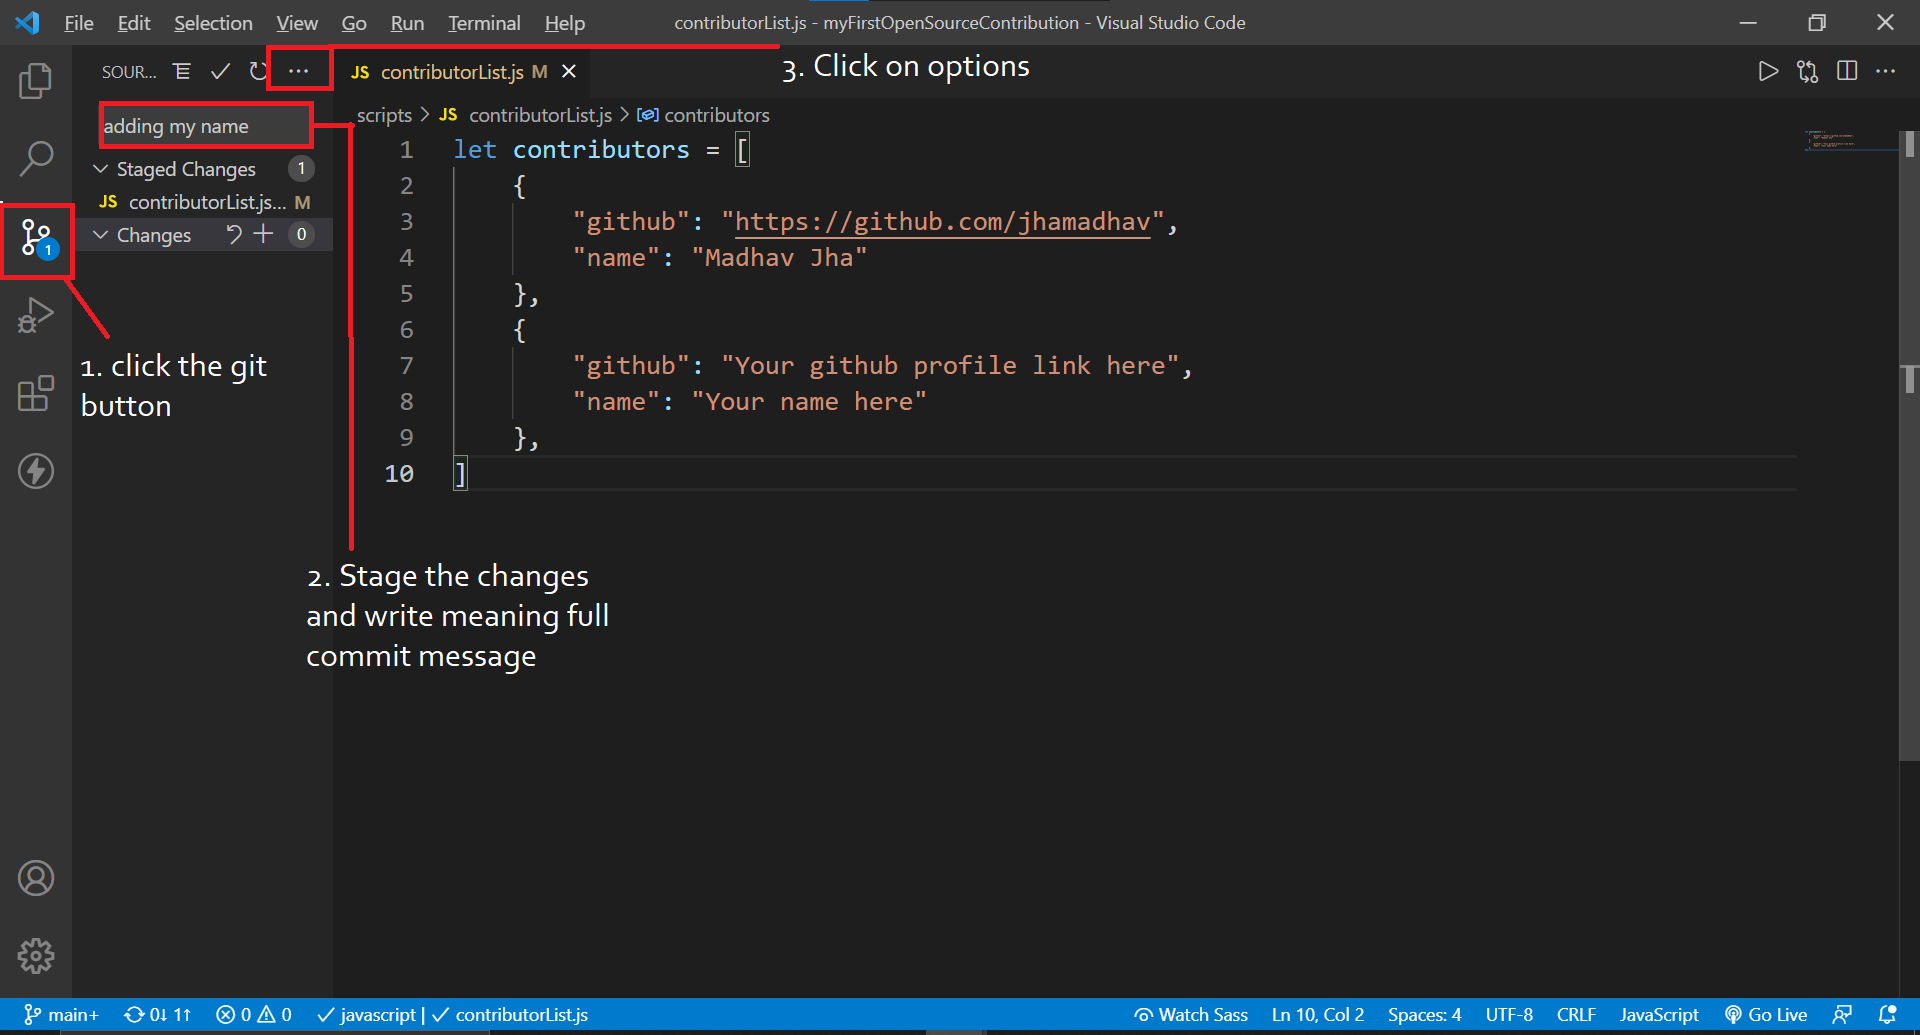
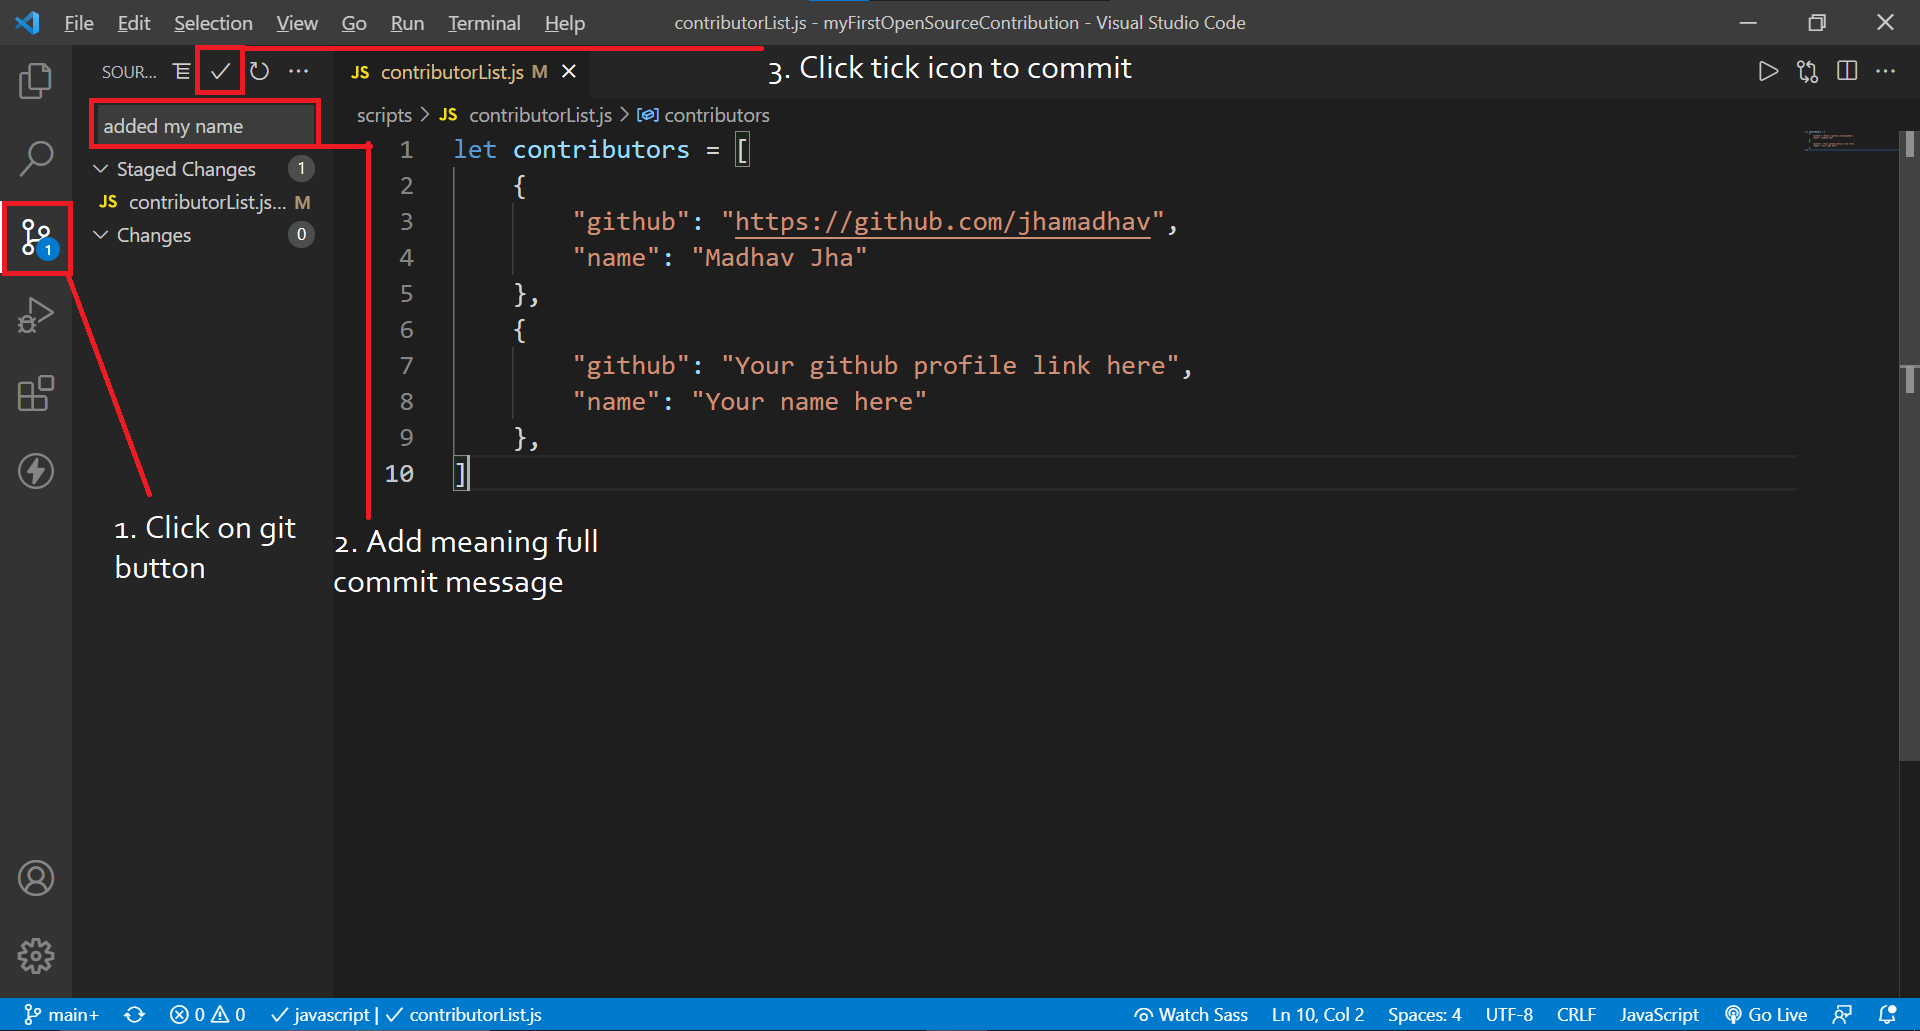
read me updated

diff --git a/README.md b/README.md
@@ -1,4 +1,8 @@
 # My First Open Source Contribution
+
+Find the project website here : https://jhamadhav.com/myFirstOpenSourceContribution <br>
+Make your own contribution and add your name here !! <br>
+
 Hi there, let me walk you on how you can make your first Open-Source Contribution using this very project.
 
 # How to contribute in this project ?
@@ -13,6 +17,8 @@ This instance will be an exact copy where you can chance and edit the project as
 
 ## Step 2: Make changes
 Once the repository is in your account, you can either make changes/edit to the project directly via GitHub GUI aur choose a text editor of your choice. Using a editor is recommended.
+
+**If you are using GitHub GUI to make changes skip to step 6 and then 8**
 
 ## Step 3: Download Git, VScode and set it up
 
@@ -52,9 +58,22 @@ Once you are done, open the project and navigate to `contributorList.js` file un
 
 Save the changes by pressing `ctrl+s`. 
 
-Then click on the github button in your vscode > click on add changes > write a commit message > click the 3 dots option button > then click push.
+Then click on the git button in your vscode > click on add changes > write a commit message > click the click icon on top to commit the changes >click the 3 dots option button > then click push.
+
+<img src="./images/contributionSteps/stageChanges.png">
+
+Now click push.
+
+<img src="./images/contributionSteps/push.png">
 
 with this you made the changes and pushed it to your forked online repository of this project.
+
+## Step 8: Make a pull request
+
+Now that all the changes that you have made is available in your forked repo, click `compare and pull request` > add meaningful message about what changes you made and click `create a pull request`
+
+with this you have successfully made your first contribution in an Open-Source projects!!!
+
 
 
 
